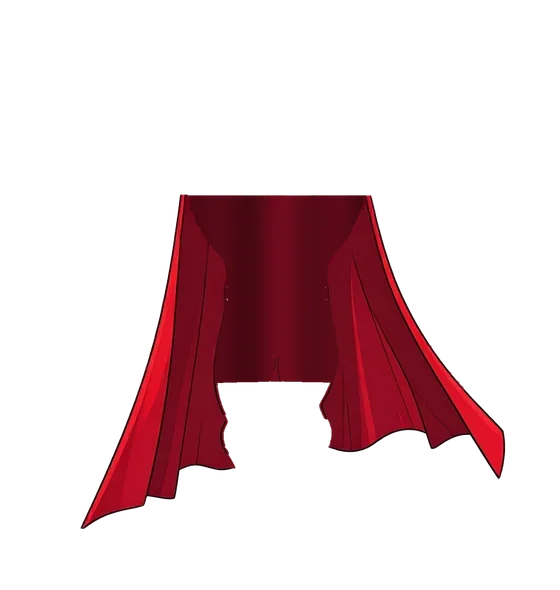
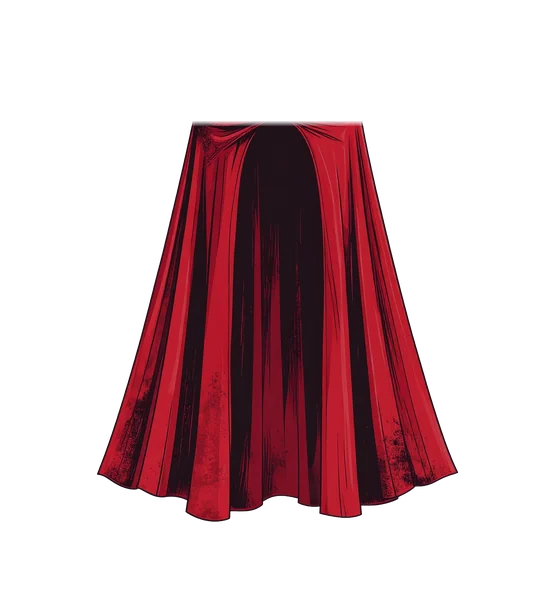
New full cape behind the hero
The cape is now its own complete drawing (Adobe cutout), tinted to match
his shoulder drape and placed behind the body, so nothing is missing when
it sways or flaps.

Claude-Session: https://claude.ai/code/session_01AFesTq58cik2Kzgpt88zTm

Changed region(s): [[0.1518, 0.1831, 0.9107, 0.8847]]

diff --git a/index.html b/index.html
@@ -233,7 +233,7 @@ button{cursor:pointer}
 .hero:not(.up) .fig{transform:translate(-50%,-50%) rotate(180deg)}
 .hero .wob{position:absolute;inset:0;transform-origin:50% 55%}
 .hero .l{position:absolute;inset:0;width:100%;height:100%;display:block;user-select:none;-webkit-user-drag:none}
-.hero .cape{transform-origin:50% 27%}
+.hero .cape{transform-origin:50% 21%}
 .hero .kg,.hero .eg{opacity:.3}
 .hero.hovering .wob{animation:breathe 2.4s ease-in-out infinite}
 @keyframes breathe{0%,100%{transform:scale(1,1)}50%{transform:scale(1.02,1.035)}}
